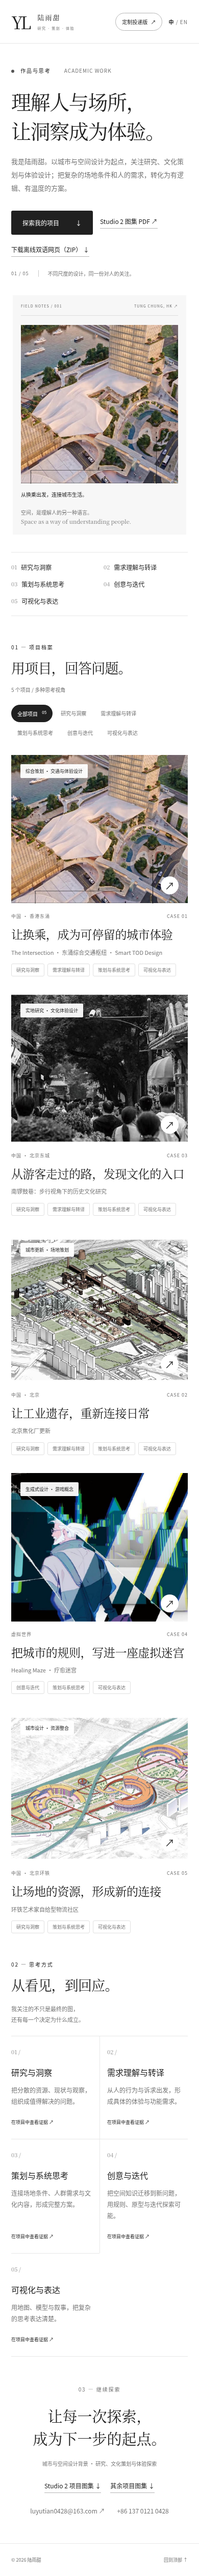
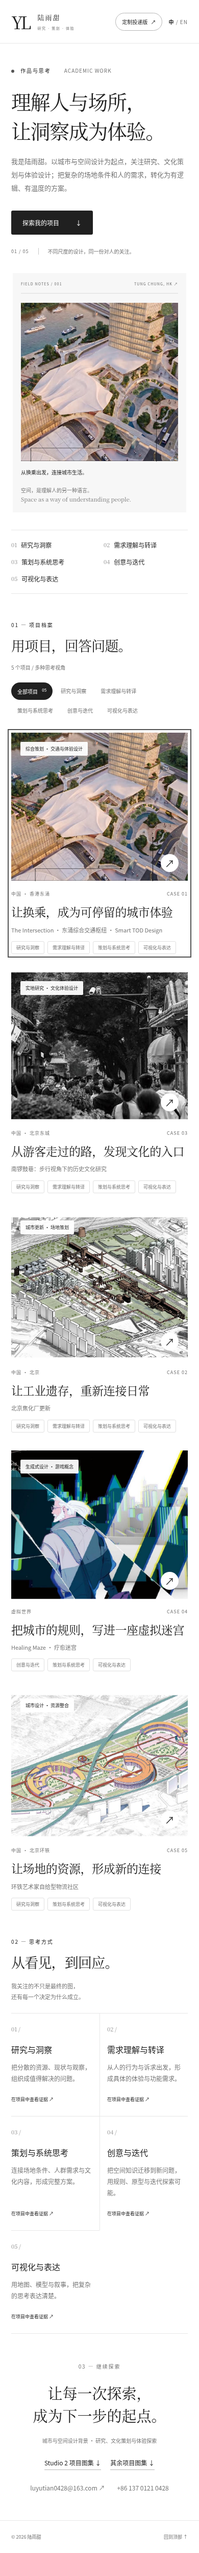
Simplify portfolio links and enlarge TOD journey analysis

diff --git a/src/style.css b/src/style.css
@@ -1,5 +1,5 @@
 :root{font-family:Inter,"Helvetica Neue","PingFang SC","Microsoft YaHei",sans-serif;color:#202020;background:#ffffff;font-synthesis:none;font-weight:400;font-size:15px;--paper:#ffffff;--ink:#202020;--muted:#737373;--line:#e7e7e7;--accent:#d4d4d4}
-*{box-sizing:border-box}html{scroll-behavior:smooth;scroll-padding-top:100px}body{margin:0}button,a,input,textarea,select{-webkit-tap-highlight-color:transparent}button,input,textarea,select{font:inherit}button,a{touch-action:manipulation}a{color:inherit;text-decoration:none}button{color:inherit;cursor:pointer}button:disabled{cursor:wait;opacity:.5}button{border:0;background:none}button:focus-visible,a:focus-visible,input:focus-visible,select:focus-visible,textarea:focus-visible{outline:2px solid #515151;outline-offset:5px}img{display:block;max-width:100%}p{line-height:1.85}h1,h2,h3,p,figure{margin:0}h1,h2,h3{font-weight:500}header,main,footer{max-width:1480px;margin:auto;padding-inline:64px}header{height:106px;display:flex;align-items:center;justify-content:space-between;border-bottom:1px solid var(--line);gap:24px}.wordmark{display:flex;gap:17px;align-items:center;font-family:Georgia,serif;font-size:40px;letter-spacing:-5px}.wordmark>span{font-family:inherit;font-size:17px;letter-spacing:2px}.wordmark-sub{display:block;font-family:Arial,sans-serif;font-size:8px;letter-spacing:1.5px;margin-top:7px;color:var(--muted)}nav{display:flex;align-items:center;gap:30px;font-size:12px}nav>a{padding-block:10px}.nav-tool{font-size:12px;border:1px solid #b5b5b5;border-radius:30px;padding:11px 18px}.nav-tool span{margin-left:12px}.language{font-size:11px;letter-spacing:1px;color:var(--muted)}.language b{color:var(--ink)}.hero{display:grid;grid-template-columns:1.05fr 1fr;gap:58px;padding-block:72px 54px;align-items:center}.eyebrow{font-size:10px;font-weight:500;letter-spacing:1.9px;line-height:1.7;display:block}.eyebrow i{display:inline-block;width:6px;height:6px;background:#555555;border-radius:100%;margin-right:8px}.eyebrow>span{color:var(--muted);letter-spacing:1px;margin-left:22px}h1{font-size:clamp(34px,3.6vw,54px);line-height:1.48;letter-spacing:-1.4px;margin:30px 0 22px;font-family:Georgia,"Songti SC","SimSun",serif}.intro{max-width:460px;font-size:13px;color:var(--muted);line-height:2}.hero-actions{display:flex;align-items:center;gap:22px;margin-top:31px}.solid{display:inline-flex;align-items:center;justify-content:space-between;gap:32px;background:var(--ink);color:#fff;padding:15px 22px;font-size:12px;border-radius:3px}.solid:hover{background:#3b3b3b}.text-link{font-size:12px;border-bottom:1px solid #b5b5b5;padding-bottom:5px}.hero-note{margin-top:42px;font-size:10px;color:var(--muted);display:flex;gap:18px;align-items:center}.hero-note>span{font-size:9px;letter-spacing:1px;border-right:1px solid #c8c8c8;padding-right:18px}.hero-art{position:relative;background:#f7f7f7;padding:20px 22px 23px;transform:none}.art-top{display:flex;justify-content:space-between;font-size:8px;letter-spacing:1.2px;color:#6a6a6a;border-bottom:1px solid #dddddd;padding-bottom:13px}.hero-image{height:330px;overflow:hidden;margin:18px 0 13px;background:white}.hero-image img{width:100%;height:113%;object-fit:cover;object-position:top}.hero-art figcaption{display:flex;justify-content:space-between;font-size:10px;gap:16px}.hero-art figcaption>span:last-child{font-size:7px;letter-spacing:1px}.art-index{font-size:10px;line-height:1.7;margin-top:19px;color:#777777}.art-index em{font-family:Georgia,serif;font-size:11px}.skill-strip{display:flex;justify-content:space-between;gap:16px;padding:24px 0;border-top:1px solid var(--line);border-bottom:1px solid var(--line)}.skill-strip>div{display:flex;gap:15px;align-items:center}.skill-strip small{font-family:Georgia,serif;font-style:italic;color:#888888;font-size:11px}.skill-strip span{font-size:12px}.section{padding-top:85px}.section-heading{display:flex;justify-content:space-between;align-items:end;gap:30px;margin-bottom:30px}.section-heading h2{font-size:29px;letter-spacing:-.8px;margin-top:12px;font-family:Georgia,"Songti SC","SimSun",serif}.section-side{font-size:10px;color:var(--muted)}.filters{display:flex;gap:6px;flex-wrap:wrap;margin-bottom:27px}.filters button{font-size:11px;padding:9px 15px;border-radius:24px;color:var(--muted);border:1px solid transparent}.filters button[aria-pressed=true]{background:var(--ink);color:white}.filters button:hover{border-color:#aaaaaa}.filters sup{margin-left:6px;font-size:8px}.project-grid{display:grid;grid-template-columns:1fr 1fr;gap:42px 30px}.project-open{width:100%;text-align:left;padding:0}.project-image{position:relative;height:310px;background:#f4f4f4;overflow:hidden}.project-image>img{width:100%;height:118%;object-fit:cover;object-position:top;transition:transform .6s}.project-image.maze>img{height:100%;object-fit:cover}.project-image.hutong>img{width:200%;max-width:none;height:auto;object-fit:initial}.project-open:hover .project-image>img{transform:scale(1.035)}.image-badge{position:absolute;left:18px;top:18px;padding:7px 10px;background:rgba(255,255,255,.95);font-size:9px;border-radius:2px}.round-arrow{position:absolute;right:18px;bottom:18px;width:35px;height:35px;border-radius:50%;background:var(--paper);display:grid;place-items:center;font-size:19px}.project-meta{display:flex;justify-content:space-between;font-size:9px;letter-spacing:1px;color:var(--muted);margin:18px 0 12px}.project-card h3{font-size:22px;line-height:1.5;letter-spacing:-.4px;font-family:Georgia,"Songti SC","SimSun",serif}.original-name{font-size:11px;color:var(--muted);margin:7px 0 12px}.chips{display:flex;flex-wrap:wrap;gap:6px}.chip{font-size:9px;border:1px solid #e0e0e0;color:#707070;padding:5px 9px;border-radius:3px}.approach{margin-top:28px}.approach .section-heading p{white-space:pre-line;font-size:11px;color:var(--muted);max-width:310px}.method-grid{display:grid;grid-template-columns:repeat(5,1fr);border-top:1px solid var(--line);border-bottom:1px solid var(--line)}.method-grid article{padding:29px 20px 30px 0;display:flex;flex-direction:column}.method-grid article+article{border-left:1px solid var(--line);padding-left:20px}.method-number{font-size:11px;color:#888888;font-family:Georgia,serif}.method-grid h3{font-size:16px;margin-top:28px;margin-bottom:12px}.method-grid p{font-size:11px;color:var(--muted);flex:1}.evidence-link{font-size:9px;margin-top:23px;text-align:left;padding:0;line-height:1.6}.closing{text-align:center;padding:80px 20px 85px}.closing .eyebrow{color:var(--muted)}.closing h2{font-size:37px;line-height:1.55;letter-spacing:-1px;font-family:Georgia,"Songti SC","SimSun",serif;margin:22px 0 17px}.closing p{font-size:11px;color:var(--muted);margin-bottom:24px}footer{display:flex;justify-content:space-between;gap:20px;border-top:1px solid var(--line);padding-block:25px;font-size:9px;color:var(--muted)}.skip{position:fixed;left:10px;top:-80px;z-index:20;background:white;padding:12px}.skip:focus{top:10px}dialog{background:var(--paper);color:var(--ink);border:1px solid var(--line);padding:0;border-radius:6px;max-height:90dvh;width:min(1060px,94vw);overscroll-behavior:contain}dialog::backdrop{background:rgba(0,0,0,.55);backdrop-filter:blur(5px)}.dialog-bar{display:flex;justify-content:space-between;align-items:center;position:sticky;top:0;background:var(--paper);border-bottom:1px solid var(--line);padding:14px 28px;z-index:1;font-size:10px;letter-spacing:1.4px}.close{font-size:29px;width:40px;height:40px;font-weight:300}.case-content,.tailor-content{padding:38px 44px 44px}.case-content h2,.tailor-content h2{font-size:34px;line-height:1.5;font-family:Georgia,"Songti SC","SimSun",serif;margin:15px 0}.case-original{font-size:14px;color:var(--muted)}.role{font-size:11px;color:var(--muted);margin:10px 0 18px}.case-intro{display:grid;grid-template-columns:1fr 3fr;gap:25px;padding-top:35px;margin-top:28px;border-top:1px solid var(--line)}.case-content h3{font-size:16px}.case-content p{font-size:13px;color:var(--muted)}blockquote{font-family:Georgia,"Songti SC","SimSun",serif;font-size:24px;line-height:1.7;border-left:2px solid #aaaaaa;margin:30px 0;padding:12px 25px;background:#f7f7f7}.case-steps{display:grid;grid-template-columns:repeat(3,1fr);gap:25px;margin:32px 0}.case-steps small{font-family:Georgia,serif;color:#808080}.case-steps h3{margin:12px 0}.gallery{background:#f5f5f5;padding:20px;margin-top:30px}.gallery-toolbar{display:flex;justify-content:space-between;align-items:center;margin-bottom:17px;gap:14px}.gallery-toolbar h3{font-size:12px}#gallery-count{font-size:10px;white-space:nowrap}.gallery>a{display:block;background:white}#gallery-image{width:100%;height:auto}.gallery-controls{display:flex;align-items:center;justify-content:space-between;gap:14px;margin-top:16px}.gallery-controls>button{font-size:22px;width:35px;height:35px}.gallery-thumbs{display:flex;gap:7px;overflow-x:auto;padding:4px}.gallery-thumbs button{width:65px;padding:2px;flex-shrink:0;border:2px solid transparent}.gallery-thumbs button[aria-pressed=true]{border-color:var(--ink)}.gallery-thumbs img{width:100%}.case-evidence{padding:26px;background:#f7f7f7;margin:30px 0}.case-evidence p{margin:12px 0}.case-evidence small{font-size:10px;line-height:1.8;display:block;color:var(--muted)}.tailor-dialog{width:min(880px,94vw)}.tailor-content>p{font-size:13px;color:var(--muted)}label{display:block;font-size:12px;margin:25px 0 10px}textarea,input,select{border:1px solid #c8c8c8;background:#ffffff;border-radius:3px;color:var(--ink);padding:12px;width:100%;font-size:13px;line-height:1.7}textarea{resize:vertical}select{cursor:pointer}.field-note{font-size:10px!important;line-height:1.8;color:var(--muted);margin:10px 0 15px}.outline{border:1px solid #aaaaaa;border-radius:3px;padding:12px 17px;font-size:12px}.outline:hover{background:#f3f3f3}.edit-grid{display:grid;grid-template-columns:1fr 1fr;gap:22px}.editor-actions{display:flex;gap:12px;margin-top:30px;flex-wrap:wrap}.reset{margin-left:25px}.match-result{border:1px solid #cecece;padding:18px;margin-top:20px;background:#f7f7f7;font-size:12px}.match-result p{font-size:12px;margin-top:9px}.match-result small{color:var(--muted);margin-left:10px}.toast{position:fixed;bottom:24px;left:50%;transform:translate(-50%,10px);padding:14px 22px;background:var(--ink);color:white;font-size:12px;opacity:0;pointer-events:none;transition:.2s;z-index:5;max-width:90vw}.toast.visible{opacity:1;transform:translate(-50%,0)}
+*{box-sizing:border-box}html{scroll-behavior:smooth;scroll-padding-top:100px}body{margin:0}button,a,input,textarea,select{-webkit-tap-highlight-color:transparent}button,input,textarea,select{font:inherit}button,a{touch-action:manipulation}a{color:inherit;text-decoration:none}button{color:inherit;cursor:pointer}button:disabled{cursor:wait;opacity:.5}button{border:0;background:none}button:focus-visible,a:focus-visible,input:focus-visible,select:focus-visible,textarea:focus-visible{outline:2px solid #515151;outline-offset:5px}img{display:block;max-width:100%}p{line-height:1.85}h1,h2,h3,p,figure{margin:0}h1,h2,h3{font-weight:500}header,main,footer{max-width:1480px;margin:auto;padding-inline:64px}header{height:106px;display:flex;align-items:center;justify-content:space-between;border-bottom:1px solid var(--line);gap:24px}.wordmark{display:flex;gap:17px;align-items:center;font-family:Georgia,serif;font-size:40px;letter-spacing:-5px}.wordmark>span{font-family:inherit;font-size:17px;letter-spacing:2px}.wordmark-sub{display:block;font-family:Arial,sans-serif;font-size:8px;letter-spacing:1.5px;margin-top:7px;color:var(--muted)}nav{display:flex;align-items:center;gap:30px;font-size:12px}nav>a{padding-block:10px}.nav-tool{font-size:12px;border:1px solid #b5b5b5;border-radius:30px;padding:11px 18px}.nav-tool span{margin-left:12px}.language{font-size:11px;letter-spacing:1px;color:var(--muted)}.language b{color:var(--ink)}.hero{display:grid;grid-template-columns:1.05fr 1fr;gap:58px;padding-block:72px 54px;align-items:center}.eyebrow{font-size:10px;font-weight:500;letter-spacing:1.9px;line-height:1.7;display:block}.eyebrow i{display:inline-block;width:6px;height:6px;background:#555555;border-radius:100%;margin-right:8px}.eyebrow>span{color:var(--muted);letter-spacing:1px;margin-left:22px}h1{font-size:clamp(34px,3.6vw,54px);line-height:1.48;letter-spacing:-1.4px;margin:30px 0 22px;font-family:Georgia,"Songti SC","SimSun",serif}.intro{max-width:460px;font-size:13px;color:var(--muted);line-height:2}.hero-actions{display:flex;align-items:center;gap:22px;margin-top:31px}.solid{display:inline-flex;align-items:center;justify-content:space-between;gap:32px;background:var(--ink);color:#fff;padding:15px 22px;font-size:12px;border-radius:3px}.solid:hover{background:#3b3b3b}.text-link{font-size:12px;border-bottom:1px solid #b5b5b5;padding-bottom:5px}.hero-note{margin-top:42px;font-size:10px;color:var(--muted);display:flex;gap:18px;align-items:center}.hero-note>span{font-size:9px;letter-spacing:1px;border-right:1px solid #c8c8c8;padding-right:18px}.hero-art{position:relative;background:#f7f7f7;padding:20px 22px 23px;transform:none}.art-top{display:flex;justify-content:space-between;font-size:8px;letter-spacing:1.2px;color:#6a6a6a;border-bottom:1px solid #dddddd;padding-bottom:13px}.hero-image{height:330px;overflow:hidden;margin:18px 0 13px;background:white}.hero-image img{width:100%;height:113%;object-fit:cover;object-position:top}.hero-art figcaption{display:flex;justify-content:space-between;font-size:10px;gap:16px}.hero-art figcaption>span:last-child{font-size:7px;letter-spacing:1px}.art-index{font-size:10px;line-height:1.7;margin-top:19px;color:#777777}.art-index em{font-family:Georgia,serif;font-size:11px}.skill-strip{display:flex;justify-content:space-between;gap:16px;padding:24px 0;border-top:1px solid var(--line);border-bottom:1px solid var(--line)}.skill-strip>div{display:flex;gap:15px;align-items:center}.skill-strip small{font-family:Georgia,serif;font-style:italic;color:#888888;font-size:11px}.skill-strip span{font-size:12px}.section{padding-top:85px}.section-heading{display:flex;justify-content:space-between;align-items:end;gap:30px;margin-bottom:30px}.section-heading h2{font-size:29px;letter-spacing:-.8px;margin-top:12px;font-family:Georgia,"Songti SC","SimSun",serif}.section-side{font-size:10px;color:var(--muted)}.filters{display:flex;gap:6px;flex-wrap:wrap;margin-bottom:27px}.filters button{font-size:11px;padding:9px 15px;border-radius:24px;color:var(--muted);border:1px solid transparent}.filters button[aria-pressed=true]{background:var(--ink);color:white}.filters button:hover{border-color:#aaaaaa}.filters sup{margin-left:6px;font-size:8px}.project-grid{display:grid;grid-template-columns:1fr 1fr;gap:42px 30px}.project-open{width:100%;text-align:left;padding:0}.project-image{position:relative;height:310px;background:#f4f4f4;overflow:hidden}.project-image>img{width:100%;height:118%;object-fit:cover;object-position:top;transition:transform .6s}.project-image.maze>img{height:100%;object-fit:cover}.project-image.hutong>img{width:200%;max-width:none;height:auto;object-fit:initial}.project-open:hover .project-image>img{transform:scale(1.035)}.image-badge{position:absolute;left:18px;top:18px;padding:7px 10px;background:rgba(255,255,255,.95);font-size:9px;border-radius:2px}.round-arrow{position:absolute;right:18px;bottom:18px;width:35px;height:35px;border-radius:50%;background:var(--paper);display:grid;place-items:center;font-size:19px}.project-meta{display:flex;justify-content:space-between;font-size:9px;letter-spacing:1px;color:var(--muted);margin:18px 0 12px}.project-card h3{font-size:22px;line-height:1.5;letter-spacing:-.4px;font-family:Georgia,"Songti SC","SimSun",serif}.original-name{font-size:11px;color:var(--muted);margin:7px 0 12px}.chips{display:flex;flex-wrap:wrap;gap:6px}.chip{font-size:9px;border:1px solid #e0e0e0;color:#707070;padding:5px 9px;border-radius:3px}.approach{margin-top:28px}.approach .section-heading p{white-space:pre-line;font-size:11px;color:var(--muted);max-width:310px}.method-grid{display:grid;grid-template-columns:repeat(5,1fr);border-top:1px solid var(--line);border-bottom:1px solid var(--line)}.method-grid article{padding:29px 20px 30px 0;display:flex;flex-direction:column}.method-grid article+article{border-left:1px solid var(--line);padding-left:20px}.method-number{font-size:11px;color:#888888;font-family:Georgia,serif}.method-grid h3{font-size:16px;margin-top:28px;margin-bottom:12px}.method-grid p{font-size:11px;color:var(--muted);flex:1}.evidence-link{font-size:9px;margin-top:23px;text-align:left;padding:0;line-height:1.6}.closing{text-align:center;padding:80px 20px 85px}.closing .eyebrow{color:var(--muted)}.closing h2{font-size:37px;line-height:1.55;letter-spacing:-1px;font-family:Georgia,"Songti SC","SimSun",serif;margin:22px 0 17px}.closing p{font-size:11px;color:var(--muted);margin-bottom:24px}footer{display:flex;justify-content:space-between;gap:20px;border-top:1px solid var(--line);padding-block:25px;font-size:9px;color:var(--muted)}.skip{position:fixed;left:10px;top:-80px;z-index:20;background:white;padding:12px}.skip:focus{top:10px}dialog{background:var(--paper);color:var(--ink);border:1px solid var(--line);padding:0;border-radius:6px;max-height:90dvh;width:min(1060px,94vw);overscroll-behavior:contain}dialog::backdrop{background:rgba(0,0,0,.55);backdrop-filter:blur(5px)}.dialog-bar{display:flex;justify-content:space-between;align-items:center;position:sticky;top:0;background:var(--paper);border-bottom:1px solid var(--line);padding:14px 28px;z-index:1;font-size:10px;letter-spacing:1.4px}.close{font-size:29px;width:40px;height:40px;font-weight:300}.case-content,.tailor-content{padding:38px 44px 44px}.case-content h2,.tailor-content h2{font-size:34px;line-height:1.5;font-family:Georgia,"Songti SC","SimSun",serif;margin:15px 0}.case-original{font-size:14px;color:var(--muted)}.role{font-size:11px;color:var(--muted);margin:10px 0 18px}.case-intro{display:grid;grid-template-columns:1fr 3fr;gap:25px;padding-top:35px;margin-top:28px;border-top:1px solid var(--line)}.case-content h3{font-size:16px}.case-content p{font-size:13px;color:var(--muted)}blockquote{font-family:Georgia,"Songti SC","SimSun",serif;font-size:24px;line-height:1.7;border-left:2px solid #aaaaaa;margin:30px 0;padding:12px 25px;background:#f7f7f7}.case-steps{display:grid;grid-template-columns:repeat(3,1fr);gap:25px;margin:32px 0}.case-steps small{font-family:Georgia,serif;color:#808080}.case-steps h3{margin:12px 0}.gallery{background:#f5f5f5;padding:20px;margin-top:30px}.gallery-toolbar{display:flex;justify-content:space-between;align-items:center;margin-bottom:17px;gap:14px}.gallery-toolbar h3{font-size:12px}#gallery-count{font-size:10px;white-space:nowrap}.gallery>a{display:block;background:white}#gallery-image{width:100%;height:auto}.gallery-controls{display:flex;align-items:center;justify-content:space-between;gap:14px;margin-top:16px}.gallery-controls>button{font-size:22px;width:35px;height:35px}.gallery-thumbs{display:flex;gap:7px;overflow-x:auto;padding:4px}.gallery-thumbs button{width:65px;padding:2px;flex-shrink:0;border:2px solid transparent}.gallery-thumbs button[aria-pressed=true]{border-color:var(--ink)}.gallery-thumbs img{width:100%}.tailor-dialog{width:min(880px,94vw)}.tailor-content>p{font-size:13px;color:var(--muted)}label{display:block;font-size:12px;margin:25px 0 10px}textarea,input,select{border:1px solid #c8c8c8;background:#ffffff;border-radius:3px;color:var(--ink);padding:12px;width:100%;font-size:13px;line-height:1.7}textarea{resize:vertical}select{cursor:pointer}.field-note{font-size:10px!important;line-height:1.8;color:var(--muted);margin:10px 0 15px}.outline{border:1px solid #aaaaaa;border-radius:3px;padding:12px 17px;font-size:12px}.outline:hover{background:#f3f3f3}.edit-grid{display:grid;grid-template-columns:1fr 1fr;gap:22px}.editor-actions{display:flex;gap:12px;margin-top:30px;flex-wrap:wrap}.reset{margin-left:25px}.match-result{border:1px solid #cecece;padding:18px;margin-top:20px;background:#f7f7f7;font-size:12px}.match-result p{font-size:12px;margin-top:9px}.match-result small{color:var(--muted);margin-left:10px}.toast{position:fixed;bottom:24px;left:50%;transform:translate(-50%,10px);padding:14px 22px;background:var(--ink);color:white;font-size:12px;opacity:0;pointer-events:none;transition:.2s;z-index:5;max-width:90vw}.toast.visible{opacity:1;transform:translate(-50%,0)}
 @media(min-width:1550px){.hero{gap:90px}.hero-image{height:380px}.project-image{height:370px}}
 @media(max-width:1050px){header,main,footer{padding-inline:32px}.hero{gap:28px}h1{font-size:35px}.hero-image{height:290px}.hero-art{padding:16px}.hero-actions{gap:14px;flex-wrap:wrap}.project-image{height:260px}.method-grid{grid-template-columns:repeat(3,1fr)}.method-grid article:nth-child(4){border-left:0;padding-left:0;border-top:1px solid var(--line)}.method-grid article:nth-child(5){border-top:1px solid var(--line)}.skill-strip>div{gap:8px}.skill-strip span{font-size:10px}nav{gap:20px}.hero-art figcaption>span:last-child{display:none}}
 @media(max-width:700px){header,main,footer{padding-inline:22px}header{height:85px}.wordmark{font-size:34px}.wordmark>span{font-size:13px}.wordmark-sub{font-size:7px}nav{gap:12px}nav>a{display:none}.nav-tool{font-size:10px;padding:9px 12px}.nav-tool span{margin-left:4px}.language{font-size:10px;padding-inline:0}.hero{grid-template-columns:1fr;gap:35px;padding-block:44px 34px}h1{font-size:39px;line-height:1.45;margin:23px 0 20px}.intro{font-size:13px}.hero-note{margin-top:25px}.hero-image{height:310px}.hero-art{margin:0 3px}.skill-strip{gap:16px;flex-wrap:wrap;padding:20px 0}.skill-strip>div{width:calc(50% - 8px)}.skill-strip span{font-size:12px}.section{padding-top:52px}.section-heading{display:block;margin-bottom:22px}.section-heading h2{font-size:27px}.section-side{display:block;margin-top:16px}.filters{gap:4px}.filters button{font-size:10px;padding:8px 11px}.project-grid{grid-template-columns:1fr;gap:35px}.project-image{height:290px}.project-card h3{font-size:23px}.approach{margin-top:0}.approach .section-heading p{margin-top:17px}.method-grid{grid-template-columns:1fr 1fr}.method-grid article{padding:22px 14px 24px 0}.method-grid article+article{padding-left:14px}.method-grid article:nth-child(3),.method-grid article:nth-child(5){border-left:0;padding-left:0}.method-grid article:nth-child(3){border-top:1px solid var(--line)}.method-grid article:nth-child(4){border-left:1px solid var(--line);padding-left:14px}.method-grid h3{font-size:16px;margin-top:20px}.method-grid p{font-size:12px}.closing{padding:55px 0}.closing h2{font-size:29px}.closing p{font-size:10px}footer{font-size:9px;flex-wrap:wrap}footer>span:nth-child(2){display:none}.case-content,.tailor-content{padding:25px 20px 30px}.case-content h2,.tailor-content h2{font-size:27px}.dialog-bar{padding:10px 15px;font-size:8px}.case-intro{grid-template-columns:1fr;gap:13px}.case-steps{grid-template-columns:1fr;gap:23px}blockquote{font-size:21px;padding:13px 17px}.gallery{padding:10px;margin-inline:-10px}.gallery-toolbar h3{font-size:10px}.gallery-thumbs button{width:46px}.gallery-controls{gap:5px}.edit-grid{grid-template-columns:1fr;gap:0}.hero-art .art-top{font-size:7px}.closing h2{letter-spacing:0}}
@@ -12,7 +12,10 @@
 
 .image-dialog{width:min(1500px,96vw)}.zoom-scroll{overflow:auto;max-height:75dvh;background:white}.zoom-scroll img{width:1600px;max-width:none}
 
-.offline-download{display:inline-block;margin-top:20px}
+
 
 .board-downloads{display:flex;justify-content:center;gap:24px;flex-wrap:wrap}.case-highlights{margin-top:36px}.case-highlight{background:#f7f7f7;padding:22px;margin-top:20px}.case-highlight figcaption p{margin:10px 0 18px}.case-highlight button{display:block;position:relative;width:100%;padding:0;background:white}.case-highlight button img{width:100%;height:auto;max-height:450px;object-fit:contain}.case-highlight button span{position:absolute;bottom:12px;right:12px;background:var(--paper);padding:8px 12px;font-size:10px;border-radius:3px}.case-highlight small{display:block;font-size:10px;color:var(--muted);margin-top:12px;line-height:1.7}
 @media(max-width:700px){.case-highlight{padding:14px}.case-highlight button span{bottom:8px;right:8px;font-size:9px}.board-downloads{gap:18px}}
+
+.case-highlight-journey{display:grid;grid-template-columns:minmax(0,1.55fr) minmax(0,1fr);column-gap:28px;row-gap:14px;align-items:start}.case-highlight-journey>button{grid-column:1;grid-row:1}.case-highlight-journey>button img{max-height:none;object-fit:contain}.case-highlight-journey>figcaption{grid-column:2;grid-row:1;padding:8px 0}.case-highlight-journey>small{grid-column:1 / -1;grid-row:2;margin-top:0}
+@media(max-width:700px){.case-highlight-journey{grid-template-columns:minmax(0,1fr);gap:14px}.case-highlight-journey>figcaption{grid-column:1;grid-row:1;padding:0}.case-highlight-journey>button{grid-column:1;grid-row:2}.case-highlight-journey>small{grid-row:3}}

diff --git a/src/main.js b/src/main.js
@@ -41,8 +41,8 @@ function portfolioApp(content, stylesheet, embedded = {}) {
         <section class="hero">
           <div class="hero-copy"><div class="eyebrow"><i></i> ${txt('作品与思考', 'SELECTED WORK & THINKING')} <span>ACADEMIC WORK</span></div>
             <h1>${esc(t(c.title)).replace(/\n/g,'<br>')}</h1><p class="intro">${esc(t(c.intro))}</p>
-            <div class="hero-actions"><a class="solid" href="#work">${txt('探索我的项目','Explore my work')} <span>↓</span></a><a class="text-link" href="${asset(featured.sourcePdf)}" download="Studio2-The-Intersection.pdf">${txt('Studio 2 图集 PDF', 'Studio 2 boards PDF')} ↗</a></div>
-            ${Object.keys(embedded).length ? '' : `<a class="offline-download text-link" href="./downloads/Lu-Yutian-Portfolio.zip" download>${txt('下载离线双语网页（ZIP）','Download offline bilingual website (ZIP)')} ↓</a>`}<div class="hero-note"><span>01 / ${String(count).padStart(2,'0')}</span>${txt('不同尺度的设计，同一份对人的关注。','Different scales. The same attention to people.')}</div>
+            <div class="hero-actions"><a class="solid" href="#work">${txt('探索我的项目','Explore my work')} <span>↓</span></a></div>
+            <div class="hero-note"><span>01 / ${String(count).padStart(2,'0')}</span>${txt('不同尺度的设计，同一份对人的关注。','Different scales. The same attention to people.')}</div>
           </div>
           <figure class="hero-art"><div class="art-top"><span>FIELD NOTES / 001</span><span>TUNG CHUNG, HK ↗</span></div><div class="hero-image"><img src="${cover(featured.cover)}" alt="${esc(t(featured.original))}"></div><figcaption><span>${txt('从换乘出发，连接城市生活。','From a transfer to a place for everyday life.')}</span><span>TRANSIT & EXPERIENCE</span></figcaption><div class="art-index">空间，是理解人的另一种语言。<br><em>Space as a way of understanding people.</em></div></figure>
         </section>
@@ -75,7 +75,7 @@ function portfolioApp(content, stylesheet, embedded = {}) {
     const p = activeProject, d = $('#case-dialog');
     const pdfFile = p.sourcePdf || 'Project-Boards.pdf';
     const pdfPage = p.sourcePage ?? p.cover - 1;
-    d.innerHTML = `<div class="dialog-bar"><span>PROJECT ${p.no} / ${esc(t(p.type))}</span><button class="close" aria-label="${txt('关闭项目','Close project')}">×</button></div><div class="case-content"><span class="eyebrow">${esc(t(p.location))}</span><h2 id="case-title">${esc(t(p.title))}</h2><p class="case-original">${esc(t(p.original))}</p>${p.role ? `<p class="role">${esc(t(p.role))}</p>` : ''}${p.id !== 'railway' && p.role ? `<p class="team-note">${txt('以下介绍小组项目的整体思路与成果。','The following describes the team project’s overall approach and outputs.')}</p>` : ''}<div class="chips">${chips(p.skills)}</div><div class="case-intro"><h3>${txt('项目背景','Context')}</h3><p>${esc(t(p.background))}</p></div><blockquote>${esc(t(p.question))}</blockquote><div class="case-steps">${p.steps.map((s,i) => `<article><small>0${i+1}</small><h3>${esc(t(s[0]))}</h3><p>${esc(t(s[1]))}</p></article>`).join('')}</div>${p.highlights ? `<section class="case-highlights" aria-label="${txt('分析与设计证据','Analysis and design evidence')}"><h3>${txt('从分析到设计，关键的三步','Three steps from analysis to design')}</h3>${p.highlights.map((h,i)=>`<figure class="case-highlight"><figcaption><h3>${esc(t(h.title))}</h3><p>${esc(t(h.text))}</p></figcaption><button data-highlight="${i}" aria-label="${txt('放大','Enlarge')} ${esc(t(h.title))}"><img src="${asset(h.image)}" alt="${esc(t(h.title))}" loading="lazy"><span>${txt('查看细节','Explore detail')} ↗</span></button><small>${esc(t(h.source))}</small></figure>`).join('')}</section>` : ''}<div class="gallery"><div class="gallery-toolbar"><h3>${txt('原始图板 · 点击放大','Original boards · click to enlarge')}</h3><span id="gallery-count"></span></div><a id="gallery-full" target="_blank" rel="noopener"><img id="gallery-image" alt=""></a><div class="gallery-controls"><button id="prev-page" aria-label="${txt('上一张','Previous board')}">←</button><div class="gallery-thumbs">${p.pages.map((n,i) => `<button data-page="${i}" aria-label="${txt('查看 PDF 第','View PDF page ')} ${typeof n === 'number' ? n : i+1} ${txt('页','')}"><img src="${page(n)}" alt=""></button>`).join('')}</div><button id="next-page" aria-label="${txt('下一张','Next board')}">→</button></div></div><div class="case-evidence"><h3>${txt('成果与证据边界','Outputs & evidence')}</h3><p>${esc(t(p.outcome))}</p><small>${esc(t(p.evidence))}</small></div><a class="text-link" href="${asset(pdfFile)}#page=${pdfPage}" ${embedded[pdfFile] ? `download="${esc(pdfFile)}"` : 'target="_blank" rel="noopener"'}>${embedded[pdfFile] ? txt('下载项目图集','Download project boards') : txt('在项目图集中查看','View in the project boards PDF')} ↗</a></div>`;
+    d.innerHTML = `<div class="dialog-bar"><span>PROJECT ${p.no} / ${esc(t(p.type))}</span><button class="close" aria-label="${txt('关闭项目','Close project')}">×</button></div><div class="case-content"><span class="eyebrow">${esc(t(p.location))}</span><h2 id="case-title">${esc(t(p.title))}</h2><p class="case-original">${esc(t(p.original))}</p>${p.role ? `<p class="role">${esc(t(p.role))}</p>` : ''}${p.id !== 'railway' && p.role ? `<p class="team-note">${txt('以下介绍小组项目的整体思路与成果。','The following describes the team project’s overall approach and outputs.')}</p>` : ''}<div class="chips">${chips(p.skills)}</div><div class="case-intro"><h3>${txt('项目背景','Context')}</h3><p>${esc(t(p.background))}</p></div><blockquote>${esc(t(p.question))}</blockquote><div class="case-steps">${p.steps.map((s,i) => `<article><small>0${i+1}</small><h3>${esc(t(s[0]))}</h3><p>${esc(t(s[1]))}</p></article>`).join('')}</div>${p.highlights ? `<section class="case-highlights" aria-label="${txt('分析与设计证据','Analysis and design evidence')}"><h3>${txt('从分析到设计，关键的三步','Three steps from analysis to design')}</h3>${p.highlights.map((h,i)=>`<figure class="case-highlight${h.image === 'studio2-journeys.jpg' ? ' case-highlight-journey' : ''}"><figcaption><h3>${esc(t(h.title))}</h3><p>${esc(t(h.text))}</p></figcaption><button data-highlight="${i}" aria-label="${txt('放大','Enlarge')} ${esc(t(h.title))}"><img src="${asset(h.image)}" alt="${esc(t(h.title))}" loading="lazy"><span>${txt('查看细节','Explore detail')} ↗</span></button><small>${esc(t(h.source))}</small></figure>`).join('')}</section>` : ''}<div class="gallery"><div class="gallery-toolbar"><h3>${txt('原始图板 · 点击放大','Original boards · click to enlarge')}</h3><span id="gallery-count"></span></div><a id="gallery-full" target="_blank" rel="noopener"><img id="gallery-image" alt=""></a><div class="gallery-controls"><button id="prev-page" aria-label="${txt('上一张','Previous board')}">←</button><div class="gallery-thumbs">${p.pages.map((n,i) => `<button data-page="${i}" aria-label="${txt('查看 PDF 第','View PDF page ')} ${typeof n === 'number' ? n : i+1} ${txt('页','')}"><img src="${page(n)}" alt=""></button>`).join('')}</div><button id="next-page" aria-label="${txt('下一张','Next board')}">→</button></div></div><a class="text-link" href="${asset(pdfFile)}#page=${pdfPage}" ${embedded[pdfFile] ? `download="${esc(pdfFile)}"` : 'target="_blank" rel="noopener"'}>${embedded[pdfFile] ? txt('下载项目图集','Download project boards') : txt('在项目图集中查看','View in the project boards PDF')} ↗</a></div>`;
     d.querySelector('.close').onclick = () => d.close();
     d.querySelectorAll('[data-page]').forEach(b => b.onclick = () => {galleryIndex = Number(b.dataset.page); updateGallery();});
     $('#prev-page').onclick = () => {galleryIndex = (galleryIndex+p.pages.length-1)%p.pages.length;updateGallery();};
@@ -120,7 +120,7 @@ function portfolioApp(content, stylesheet, embedded = {}) {
       const base=profiles[pick];recommendation={...base,priority:match.map(m=>m.id),order:[...projects].sort((a,b)=>score(b)-score(a)).map(p=>p.id)};
       function score(p){return matched.reduce((sum,m)=>sum+(p.skills.includes(m.id)?m.hits.length:0),0);}
       $('#profile-select').value=pick;fill(recommendation);
-      $('#jd-result').innerHTML=`<div class="match-result"><strong>${txt('已更新建议文案与排序','Suggested text and order updated')}</strong>${matched.map(m=>`<p>${esc(skillName(m.id))} <small>${m.hits.map(esc).join(' / ')}</small></p>`).join('')}<p class="field-note">${txt('优先查看对应项目的“成果与证据边界”。商业测算、实际运营、落地执行、抗压与冲突处理等仍需另补证据；学历、语言成绩等资格也需单独确认。','Check each project’s outputs and evidence. Commercial modelling, operations, delivery, resilience and conflict resolution need separate evidence, as do education and language qualifications.')}</p></div>`;
+      $('#jd-result').innerHTML=`<div class="match-result"><strong>${txt('已更新建议文案与排序','Suggested text and order updated')}</strong>${matched.map(m=>`<p>${esc(skillName(m.id))} <small>${m.hits.map(esc).join(' / ')}</small></p>`).join('')}<p class="field-note">${txt('请结合项目实际内容核对建议。商业测算、实际运营、落地执行、抗压与冲突处理等仍需另补证据；学历、语言成绩等资格也需单独确认。','Review the suggestions against the actual project content. Commercial modelling, operations, delivery, resilience and conflict resolution need separate evidence, as do education and language qualifications.')}</p></div>`;
     };
     function readDraft() {
       const order=$('#project-order').value.split(/[,，]/).map(v=>v.trim()).filter(Boolean);
